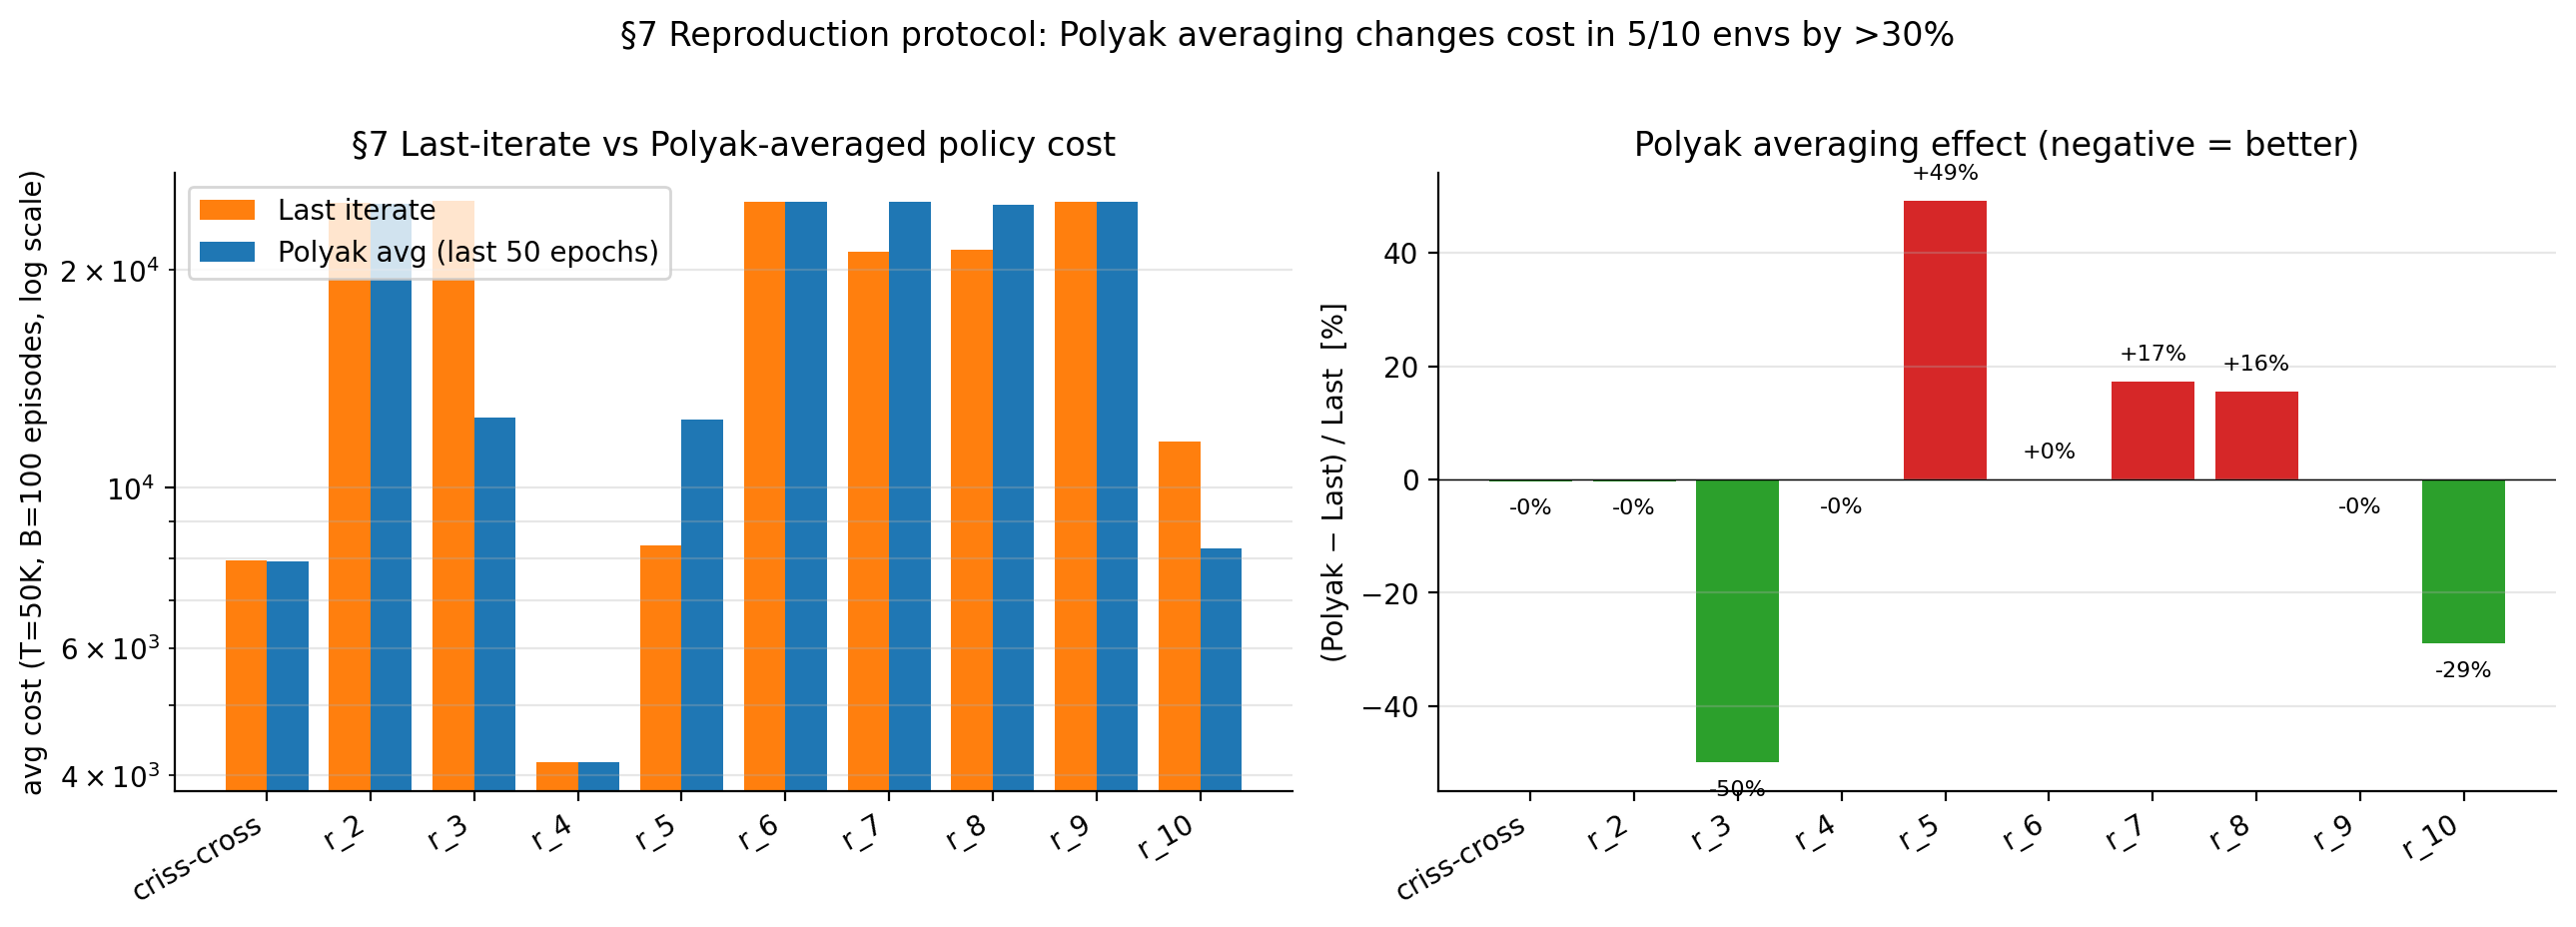
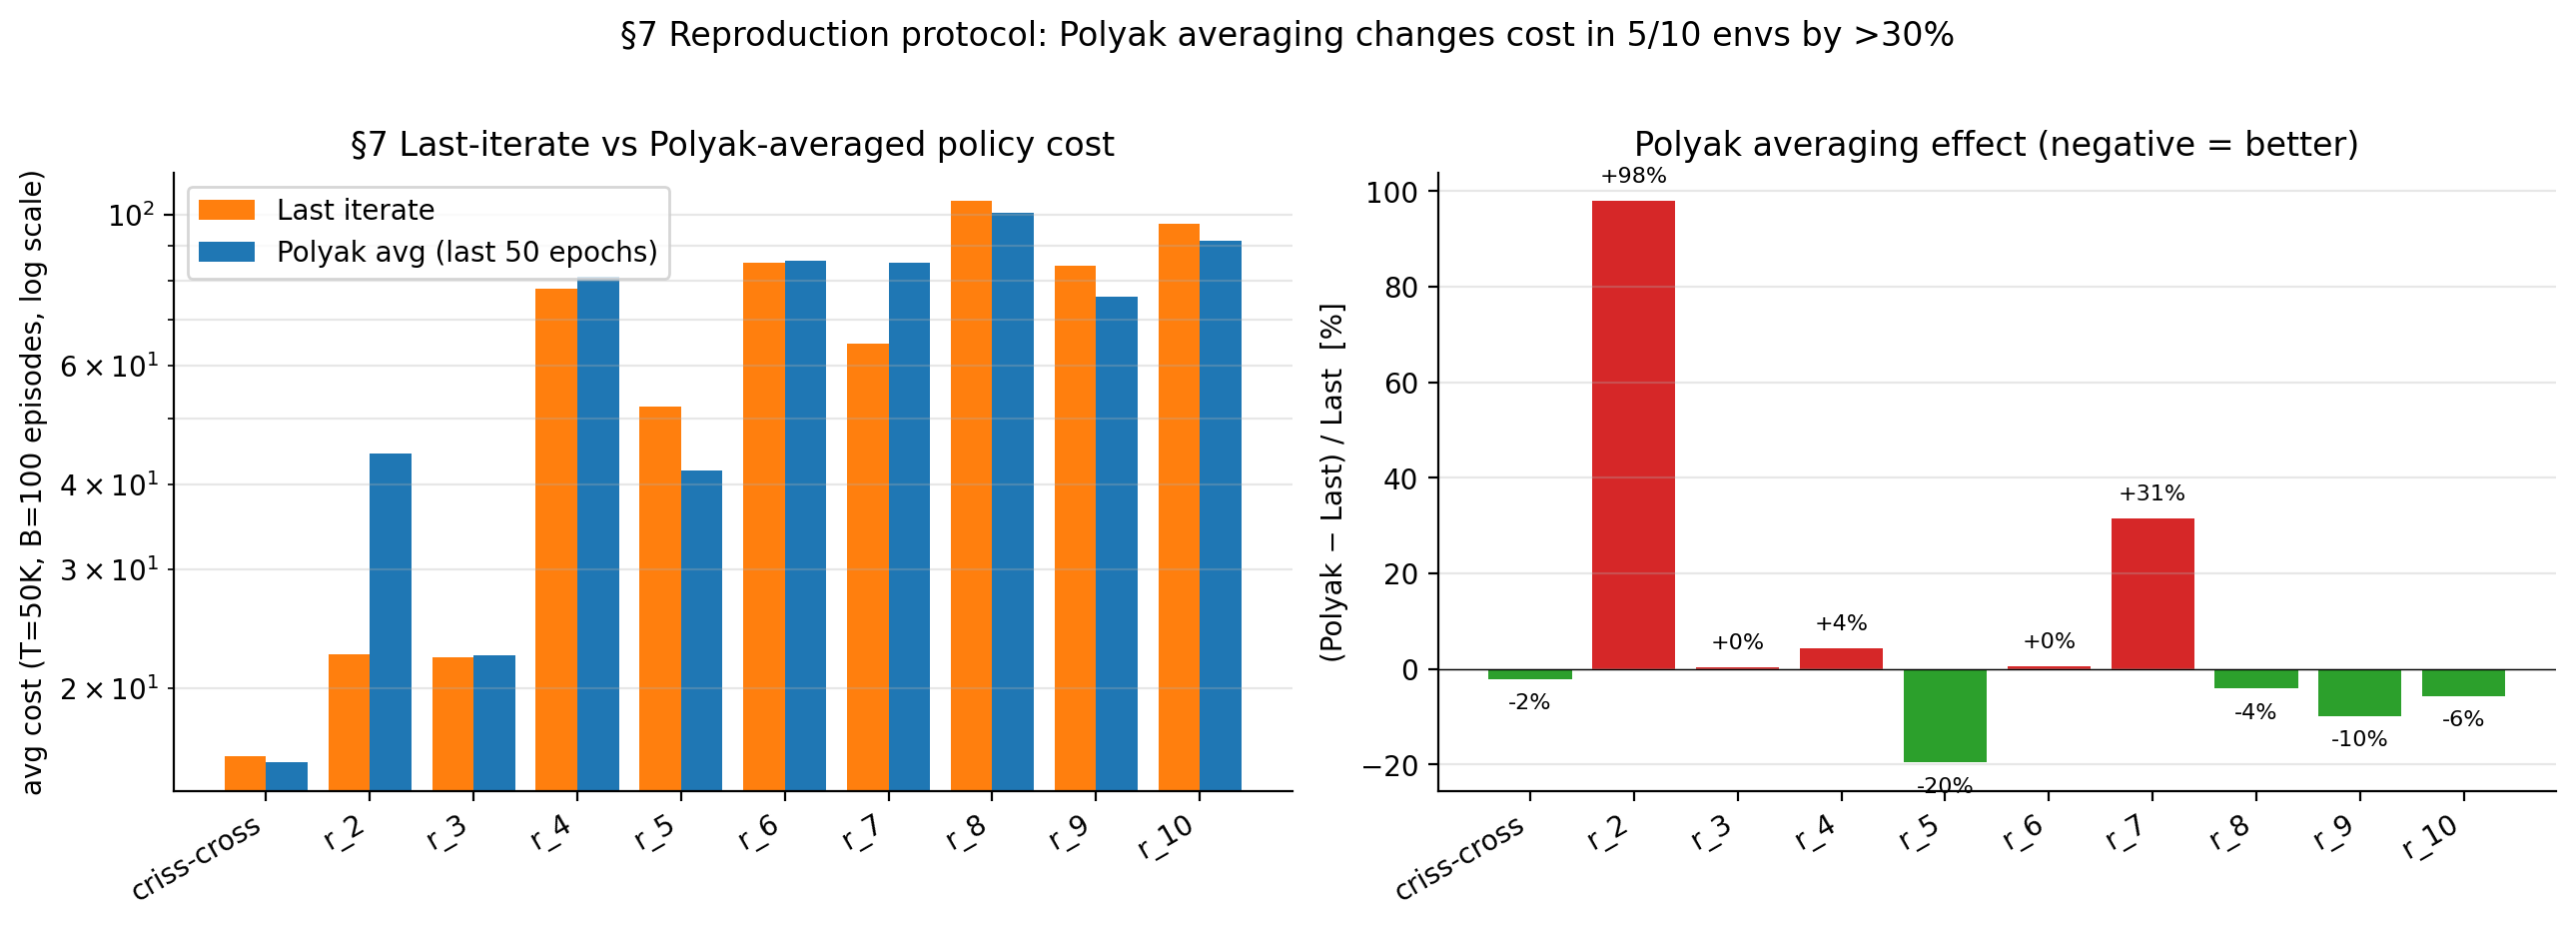
Polyak v3: WC eval protocol applied (cost normalization fixed)

diff --git a/differentiable-queueing/experiments/reproduction/test_polyak_eval.py b/differentiable-queueing/experiments/reproduction/test_polyak_eval.py
@@ -107,19 +107,24 @@ def evaluate_policy(net, env_config, batch, T, device='cpu'):
 
 
 def get_avg_cost(net, env_config, batch, T):
-    """Time-averaged cost (matches train_policy.py line 302 protocol)."""
+    """Time-averaged cost with paper's WC eval protocol."""
     dq = load_env(env_config, temp=1e-3, batch=batch, seed=42, device='cpu')
     obs, state = dq.reset()
-    total_cost = torch.zeros(batch)
+    total_cost = torch.zeros(batch, 1)
     with torch.no_grad():
         for _ in range(T):
             queues, t = obs
-            action = net(queues, t.detach() if t is not None else None)
+            pr = net(queues, t.detach() if t is not None else None)  # (B,s,q) softmax
+            # Apply paper's eval protocol (matches train_policy.py 269-273)
+            pr = pr * dq.network
+            pr = torch.minimum(pr, queues.unsqueeze(1).repeat(1, dq.s, 1))
+            pr = F.one_hot(torch.argmax(pr, dim=2), num_classes=dq.q).float()
+            action = torch.round(pr)
             obs, state, cost, _ = dq.step(state, action)
             total_cost = total_cost + cost
-    # Normalize by actual time elapsed (state.time is shape [batch, 1])
-    time_elapsed = state.time.squeeze(-1)  # [batch]
-    return float((total_cost / time_elapsed).mean())
+    # Normalize by actual time elapsed
+    time_elapsed = state.time.squeeze(-1)
+    return float((total_cost.squeeze(-1) / time_elapsed).mean())
 
 
 def main():